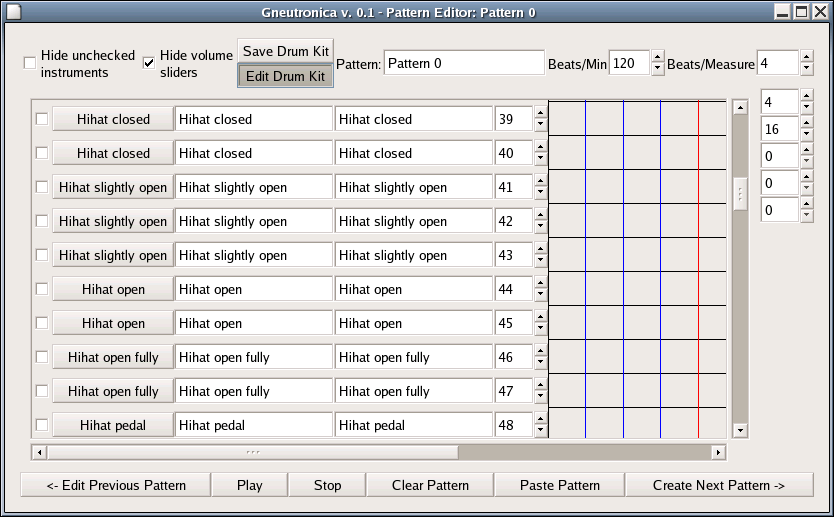
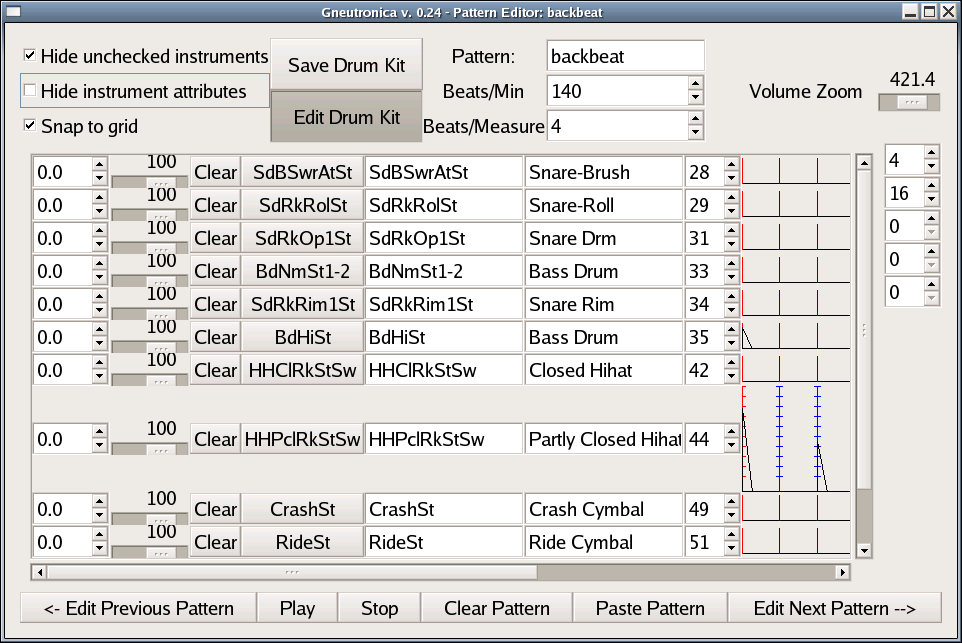
documentation update

diff --git a/documentation/gneutronica.html b/documentation/gneutronica.html
@@ -157,11 +157,15 @@ as one might one, since the area of pixels in which you click the mouse is only
 about 30 pixels high, you don't get the full 0-127 values, but only a
 down-sampled 30 values.  There is a "Volume Zoom" feature which allows you
 to expand the height of the area for the current instrument by a preset
-amount.  Using this, you get the same convenience of single-click
+amount.  You can see this in action above for the instrument "HHPclRkStSW" (hey, that's
+what Yamaha called it -- it's a Hi hat.)  
+Using this, you get the same convenience of single-click
 placement of notes in both time and velocity, and you get the needed 
 precision, and as each instrument is automatically expanded and contracted
 as you place notes, you still get to see plenty of instruments onscreen 
-at once. 
+at once.  Explaining it is more difficult than using, if you just move the
+"Volume Zoom" slider around and watch the screen, and click on a few notes,
+you'll immediately see how it works.
 
 
 <p><b>To delete a note,</b> click on it with the right or middle mouse buttons.
@@ -193,6 +197,18 @@ will use just a few instruments, but the drumkits typically contain very many
 instruments, which can lead to a lot of superflous scrolling around.  By checking
 the boxes next to the instruments you are actually using, and checking the "Hide
 unchecked instruments" box, you can reduce this scrolling.
+
+<p>Some additional features are available if the "Hide Instrument Attributes"
+checkbox is not checked.  In that case, there will be a "spinbox" at the
+extreme left hand side of each instrument row in the pattern window.  This
+controls "drag" or "rushing" of an instrument.  You set the percentage of
+a beat you wish the instrument to "drag" behind the "correct" time.  If you
+use a negative number, you get negative drag, or, rushing, the instrument 
+will play "too soon," compared to correct time.
+<p>Next to the drag control is the default volume control, a simple slider
+which sets the default volume for notes.  (See more above about setting
+the volume of notes.)  After the default volume control is a button to
+clear all the notes of that instrument from a pattern.
 
 <h1>Arranging patterns into a song</h1>
 <p>Here is the arranger window:
@@ -262,19 +278,23 @@ patterns fron another song to the current song.  In order for this to work nicel
 the drumkits the two songs use must be the same, or at least similar in that they have
 instruments sharing the same roles in the same locations in the drum kit.  At some point
 there may be a feature to remap patterns from one drumkit to another, but not yet.
-
+</ul>
 <p><b>Some things Gneutronica doesn't do</b>
 
 <ul>
 <li>Interconnect with Jack.  (I don't really know if it even makes sense for a MIDI app.)
 <li>Talk to soundcard based MIDI "devices" (soundfonts).  Probably not hard to make that 
-work.
+work.  If you use virtual midi devices, it may actually work already.  If you find this
+to be the case, please write me and let me know a few details. 
+<smcameron@users.sourceforge.net>
 <li>Do any sort of sample-based playback.  It's strictly MIDI.
 <li>Export or import MIDI files.  It talks the MIDI protocol, not 
 the MIDI file format.  Producing MIDI files seems like it would be
 useful, so I suppose that might be something to work on one day.  
+I looked into some info about MIDI file formats, and this actually
+seems fairly easy, so this will probably be done fairly soon.
 Reading MIDI input from a keyboard or drumpads seems 
-extremely unlikely to ever occur.
+extremely unlikely to ever occur, however.
 <li>... probably some other stuff.
 </ul>
 
